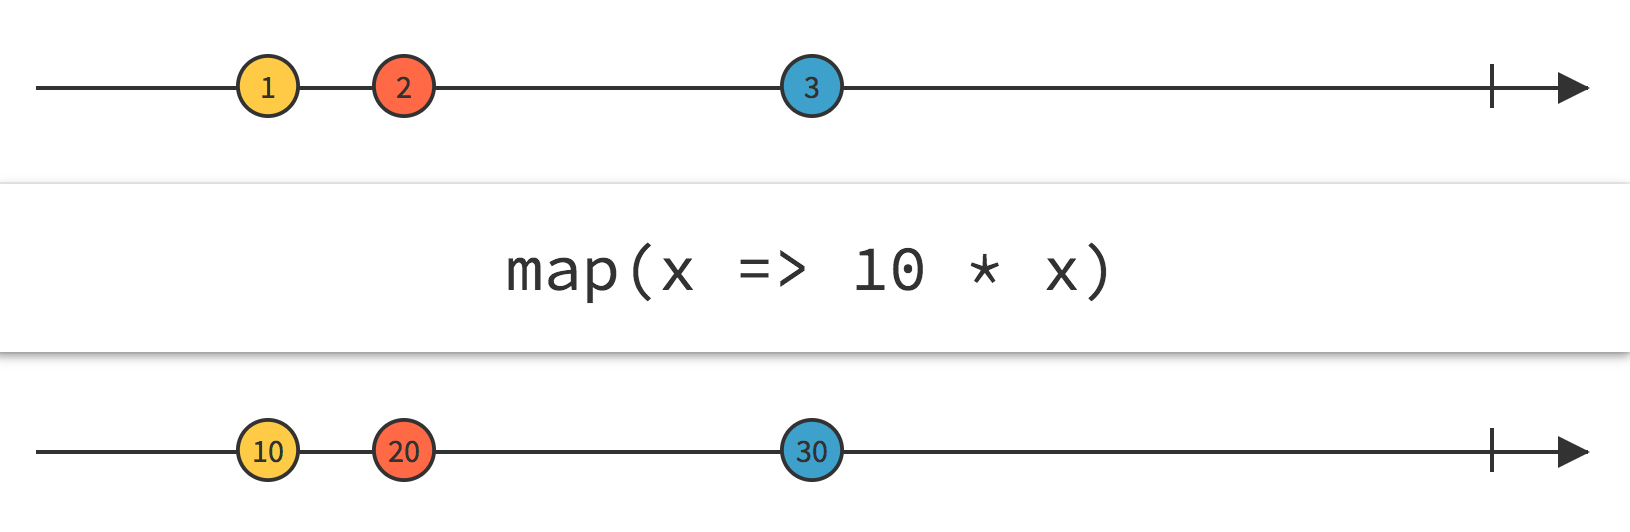
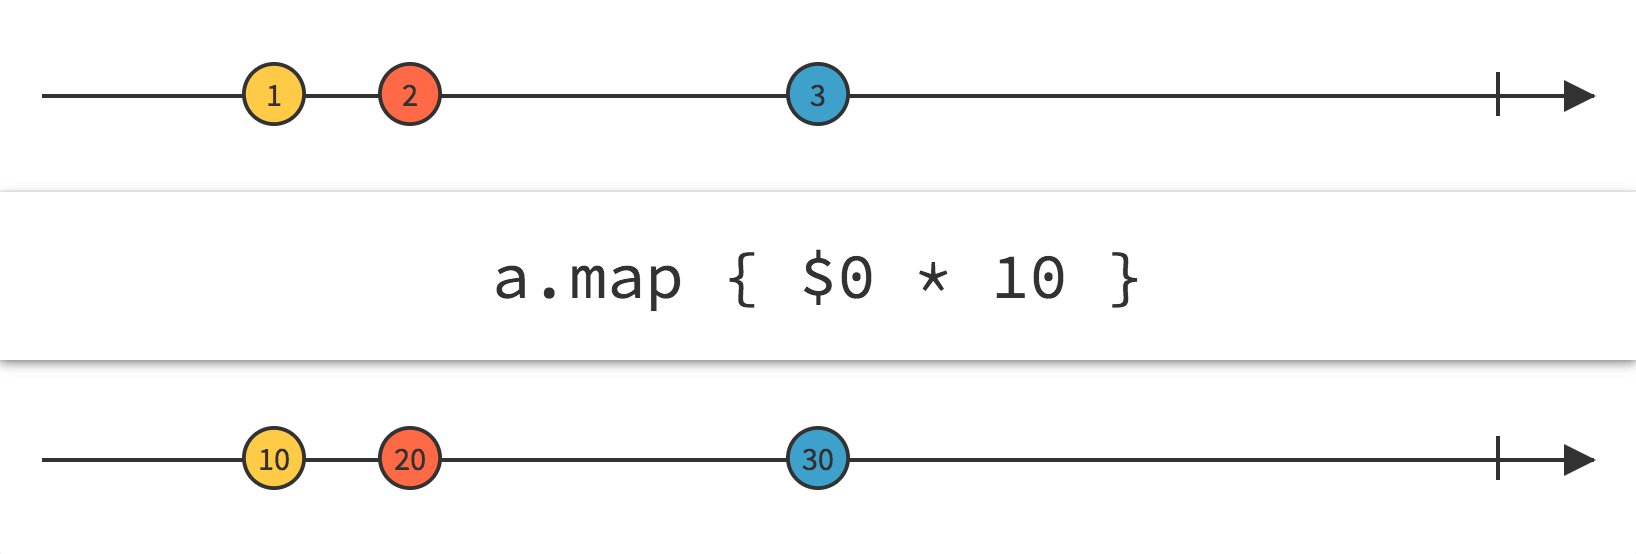
Slide work

diff --git a/index.html b/index.html
@@ -13,6 +13,19 @@
     .reveal .highlight {
         color: #4788FB
     }
+    .reveal h4 {
+        margin: 20px 0 0 30%;
+        color: #4788FB;
+        text-align: left;
+    }
+    .reveal .uncenter ul {
+        margin: 0 0 0 30%;
+            padding: 0 0 0 2em;
+        text-align: left;
+    } 
+    .uncenter {
+        text-align: left;
+    }
 </style>
     </head>
     <body>
@@ -67,36 +80,25 @@
                     <h2>There is none</h2>
                 </section>
                 <section>
-                    <ul>
-                        <li>NSNotificationCenter</li>
-                        <li>Delegates</li>
-                        <li>Callback closures</li>
-                    </ul>
+                    <h2>NSNotificationCenter</h2>
+                    <h2>Delegates</h2>
+                    <h2>Callback closures</h2>
                 </section>
                 <section>
                     <pre><code class="hljs objectivec" data-trim>
 self.timeObserver = [avPlayer addPeriodicTimeObserverForInterval:CMTimeMake(1, 10) 
-    queue:NULL usingBlock:^(CMTime time)
-        {
-            NSTimeInterval timeInSeconds = CMTimeGetSeconds(time);
+    queue:NULL usingBlock:^(CMTime time) {
+        NSTimeInterval timeInSeconds = CMTimeGetSeconds(time);
+        NSTimeInterval currentItemDuration = [weakSelf.player currentItemDuration];
             
-            if(timeInSeconds > 0 && [weakSelf.delegate
-                respondsToSelector:@selector(videoPlayer:didPlayFrame:time:lastTime:)])
-            {
-                NSTimeInterval currentItemDuration = [weakSelf.player currentItemDuration];
-                
-                if(!isnan(currentItemDuration))
-                {
-                    [[NSNotificationCenter defaultCenter]
-                        postNotificationName: kVKVideoPlayerDurationDidLoadNotification
-                        object:weakSelf
-                        userInfo:@{@"duration":[NSNumber numberWithDouble:currentItemDuration]}];
-                    
-                    [weakSelf.delegate videoPlayer:weakSelf
-                        didPlayFrame:weakSelf.track time:timeInSeconds lastTime:0];
-                }
-            }
-        }];
+        [[NSNotificationCenter defaultCenter]
+            postNotificationName: kVKVideoPlayerDurationDidLoadNotification
+            object:weakSelf
+            userInfo:@{@"duration":[NSNumber numberWithDouble:currentItemDuration]}];
+            
+        [weakSelf.delegate videoPlayer:weakSelf
+            didPlayFrame:weakSelf.track time:timeInSeconds lastTime:0];
+    }];
                     </code></pre>
                        <aside class="notes">Here's an example from the code I found using all three mechanisms at once. Pretty full on.
                            So with the rewrite to swift, came a good opportunity to make the app more functional. Now functional programming and mobile application development tend not to be two things you associate with each other. And for good reason, between the network requests, user input, animations, its pretty hard to keep your app adhering to functional paradigms outside of little snippets of maps and filters. So how can we reap the benefits of a more functional architecture?</aside>
@@ -114,8 +116,7 @@ self.timeObserver = [avPlayer addPeriodicTimeObserverForInterval:CMTimeMake(1, 1
                     <h2>The Observable</h2>
                     <p>An asynchronous value stream</p>
                     <img src="images/observable.png" />
-                    <aside class="notes">At the heart of Rx is the observable. An observable defines a stream of values, which will arrive asynchronously over time. 
-                        Observables are pure, computation of an observable does not have side effects.
+                    <aside class="notes">At the heart of Rx is the observable. An observable defines a stream of values, which will arrive asynchronously over time. It appears similar to an iterator, however rather than pulling values from it, it pushes them.  Observables are pure, computation of an observable does not have side effects.
                     </aside>
                 </section>
                 <section>
@@ -144,40 +145,8 @@ button.rx.tap //This is an observable
                     </code></pre> 
                 </section>
                 <section>
-                    <h2>Disposal</h2>
-                    <p>Manage the lifetime of your subscriptions</p>
-                    <aside class="notes">Now when you define a subscription, you have created a description of what to do when something happens. But for how long? Well, until it is disposed. When you create a subscription, you are provided with a disposable object. This object is essentially a handle on your subscription. Once you call dispose on this handle, your subscription is over, and all observables created by your subscription are disposed,  Observables can define code to execute when they are disposed, which is useful when they are long running eg. cancelling network requests. 
-                        RxSwift provides something called a disposeBag, which manages a collection of subscriptions. Once its refcount reaches zero and it is deinited, it will dispose every subscription it is storing.</aside>
-                    <pre><code class="hljs swift">
-let disposables = DisposeBag()
-
-//Subscription will exist until tapDisposable.dispose()
-let tapDisposable = button.rx.tap 
-    .subscribe(onNext: { present(viewController: myAlert) })
-
-
-tapDisposables.disposed(by: disposables) //disposables will call tapDisposable.dispose() on deinit
-                    </code></pre> 
-                </section>
-                <section>
-                    <h2>Using the DisposeBag</h2>
-                    <aside class="notes">The great thing about observable disposal is that it chains. When a subscription is disposed, all observables that have been created within its chain are disposed. When used in conjuction with the DisposeBag, this means that we don't have to worry about screens leaking resources once they are gone.</aside>
-                    <pre><code class="hljs swift">
-class ViewController: UIViewController {
-    let disposables = DisposeBag()
-
-    override func viewDidLoad() {
-        super.viewDidLoad()
-        let tapDisposable = button.rx.tap 
-            .subscribe(onNext: { present(viewController: myAlert) })
-            .disposed(by: disposables)
-    }
-                    </code></pre>
-                </section>
-                <section>
                     <h2>Observable operators</h2>
                     <img src="images/map.png" />
-                    <pre><code class="hljs swift">let newObservable = numberSource.map { $0 * 10 }</code></pre>
                     <aside class="notes">The observer pattern itself is nothing new. However Rx means Reactive extensions, and its at the x where things get interesting. Each Rx implementation ships with a variety of functional operators which can be applied to observables. These operators allow you to transform observables and combine them with each other in various ways, providing the building blocks for a functional and declarative codebase.</aside>
                 </section>
                 <section>
@@ -187,14 +156,7 @@ class ViewController: UIViewController {
                 </section>
                 <section>
                     <h2>Done!</h2>
-                    <pre><code class="hljs swift">
-class ViewController: UIViewController {
-    let disposables = DisposeBag()
-
-    override func viewDidLoad() {
-        super.viewDidLoad()
-
-        loginButton.rx.tap
+                    <pre><code class="hljs swift"> loginButton.rx.tap
             .withLatestFrom(
                 Observable.combineLatest(nameField.rx.text, passwordField.rx.text)
             )
@@ -205,16 +167,8 @@ class ViewController: UIViewController {
     }
 </code></pre>
                 </section>
-
                 <section>
-                    <h2>Done!</h2>
                     <pre class="manualcode">
-class ViewController: UIViewController {
-    let disposables = DisposeBag()
-
-    override func viewDidLoad() {
-        super.viewDidLoad()
-
         loginButton.rx.tap
             .withLatestFrom(
                 <span class="highlight">Observable.combineLatest(nameField.rx.text, passwordField.rx.text)</span>
@@ -223,38 +177,30 @@ class ViewController: UIViewController {
             .map { $0.isSuccess ? "Success!" : "Failure" }
             .bindTo(resultField.rx.text)
             .disposed(by: disposables)
-    }
 </pre>
                 </section>
                 <section>
-                    <h2>Done!</h2>
+                    <h2>combineLatest</h2>
+                    <img src="images/combineLatest.png" />
+                </section>
+                <section>
                     <pre class="manualcode">
-class ViewController: UIViewController {
-    let disposables = DisposeBag()
-
-    override func viewDidLoad() {
-        super.viewDidLoad()
-
-        <span class="highlight">loginButton.rx.tap
-            .withLatestFrom(
-                </span>Observable.combineLatest(nameField.rx.text, passwordField.rx.text)
+        loginButton.rx.tap
+            <span class="highlight">.withLatestFrom(</span>
+                Observable.combineLatest(nameField.rx.text, passwordField.rx.text)
             <span class="highlight">)</span>
             .flatMapLatest { userAPI.login(user: $0, password: $1) }
             .map { $0.isSuccess ? "Success!" : "Failure" }
             .bindTo(resultField.rx.text)
             .disposed(by: disposables)
-    }
 </pre>
                 </section>
                 <section>
-                    <h2>Done!</h2>
+                    <h2>withLatestFrom</h2>
+                    <img src="images/withLatestFrom.png" />
+                </section>
+                <section>
                     <pre class="manualcode">
-class ViewController: UIViewController {
-    let disposables = DisposeBag()
-
-    override func viewDidLoad() {
-        super.viewDidLoad()
-
         loginButton.rx.tap
             .withLatestFrom(
                 Observable.combineLatest(nameField.rx.text, passwordField.rx.text)
@@ -263,9 +209,139 @@ class ViewController: UIViewController {
             .map { $0.isSuccess ? "Success!" : "Failure" }
             .bindTo(resultField.rx.text)
             .disposed(by: disposables)
-    }
 </pre>
                 </section>
+                <section>
+                    <h2>flatMap/Latest</h2>
+                    <img style="background: white;" src="images/flatMap.png" />
+                </section>
+                <section>
+                    <h2>A functional reactive video player</h2>
+                    <img src="images/videoplayer.png" style="height: 70%; width: auto;" />
+                    <aside class="notes">Ok now lets move on to a more advanced example... like a workout video player. 
+                    So the video player in this app, it has more than a few things going on. At the bottom of the pile you have the workout videos,
+                    which is essentially the iOS AVPlayer widget being fed a playlist of streams to play.
+                    Then either below it or overlayed, depending on screen orientation, we have the hud, showing what exercise you're on, what rep within that exercise, and what's coming up next, among other things.
+                    And in between exercises we display intro segments, displaying info about the upcoming exercise, while actually pausing the video player underneath.
+                    </aside>
+                </section>
+                <section>
+                    <aside class="notes">Ok so there's a lot going on at this screen at once. We want to build a screen which displays information derived from the current state of the video player.  This calls for a reactive UI. The iOS video player exposes a variety of notifications to make it possible to build one around it. Unfortunately iOS doesn't help us here in that it uses three different mechanisms to notify the developer of changes to the video player's state. This is a place where rx shines, as we can encapsulate each of the notification mechanisms in observables, providing us with both a consistent api, and a library of functional operators with which to build our reactive ui.</aside>
+                    <div class="uncenter">
+                        <h4>Key-value observable</h4>
+                        <ul>
+                            <li>currentItem</li>
+                            <li>isMuted</li>
+                            <li>volume</li>
+                            <li>status</li>
+                        </ul>
+                        <h4>Registered callbacks</h4>
+                        <ul>
+                            <li>Reached time</li>
+                            <li>Periodic time</li>
+                        </ul>
+                        <h4>Broadcast notifications</h4>
+                        <ul>
+                            <li>Reached end of item</li> 
+                            <li>Failed to play</li>
+                            <li>Player skipped time</li>
+                        </ul>
+                    </div>
+                </section>
+                <section>
+                    <h2>KVO -> Observable</h2>
+                    <pre><code class="hljs swift">
+extension Reactive where Base: AVPlayer {
+    public var currentItem: Observable&lt;AVPlayerItem&gt;{
+        return observe(AVPlayerItem.self, "currentItem")
+    }
+}
+                    </code></pre>
+                </section>
+                <section>
+                    <h2>NSNotification -> Observable</h2>
+                    <pre><code class="hljs swift">
+extension Reactive where Base: AVPlayer {
+    public var itemEnd: Observable&lt;NSNotification&gt; {
+        return Observable.merge(
+            notificationCenter.rx.notification(NSNotification.Name.AVPlayerItemDidPlayToEndTime),
+            notificationCenter.rx.notification(NSNotification.Name.AVPlayerItemFailedToPlayToEndTime)
+        )
+    }
+}
+                    </code></pre>
+                </section>
+                <section>
+                    <h2>Callback -> Observable</h2>
+                    <pre><code class="hljs swift">
+extension Reactive where Base: AVPlayer {
+    public func seekTime(scale: CMTime) -> Observable&lt;Double&gt; {
+        return Observable.create { observer in
+            let timeObserver = player.addPeriodicTimeObserver(forInterval: scale, queue: nil) {
+                observer.on(.next($0.seconds))
+            }
+            return Disposables.create {
+                player.removeTimeObserver(timeObserver)
+            }
+        }
+    }
+}
+                    </code></pre>
+                </section>
+                <section>
+                    <h2>Now everything is simple</h2>
+                <img src="images/everythingobservable.jpg" />
+                </section>
+                <section>
+                    <aside class="notes">So this is how we would expose the name of the currently playing exercise.</aside>
+                    <pre><code class="hljs swift">
+class WorkoutPlayer {
+    public lazy var currentExerciseName: Observable&lt;String&gt; = 
+        Observable.combineLatest(self.workout, self.currentItem) { workout, currentItem in
+            workout.exercises[currentItem.position].name
+         }
+}
+            </code></pre>
+                </section>
+                <section>
+                    <h2>The old fashioned way</h2>
+                    <aside class="notes">As a comparison, here is the equivalent functionality implemented using plain old key value observing, as well as a delegate to notify the new exercise name. You can see that on top of outright being more code, we have to keep track of our two changing properties in variables. We all know that as the size and scale of the class increases, the number of variables that we need to track will increase inordinately with the data we want to derive.</aside> 
+                    <pre><code class="hljs swift" style="font-size: 16px; line-height: 20px;">
+protocol WorkoutPlayerDelegate {
+    func exerciseNameChanged(name: String)
+}
+
+class WorkoutPlayer {
+    var workout: Workout {
+        didSet {
+            updateCurrentExercise()
+        }
+    }
+    var currentItem: WorkoutPlayerItem?
+    
+    func setupObserving() {
+        let player = AVPlayer()
+        addObserver(self, forKeyPath: #keyPath(player.currentItem), options: [.old, .new], context: nil)
+    }
+    
+    override func observeValue(forKeyPath keyPath: String?, of object: Any?, change: [NSKeyValueChangeKey : Any]?, context: UnsafeMutableRawPointer?) {
+        if keyPath == #keyPath(player.currentItem) {
+           currentItem = player.currentItem
+           updateCurrentExercise()
+        }
+    }
+    
+    func updateCurrentExercise() {
+        let exercise = workout.exercises[currentItem.position]
+        delegate.exerciseNameChanged(name: exercise.name)
+    }
+    
+    func unsetupObserving() {
+        removeObserver(self, forKeyPath: #keyPath(player.currentItem))
+    }
+}
+
+                    </code</pre>
             </div>
         </div>
         <script src="lib/js/head.min.js"></script>
